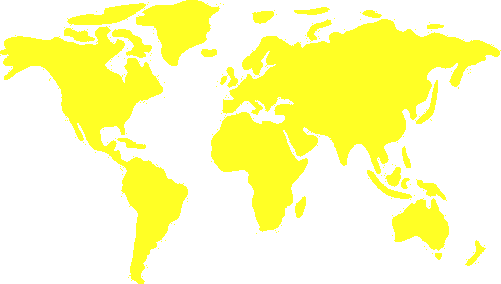
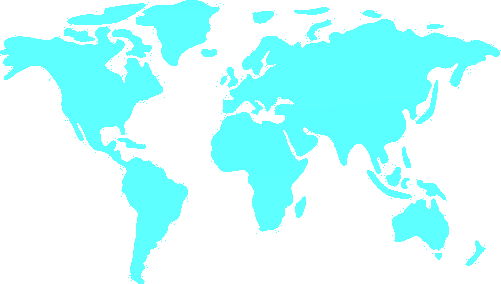
modified:   Colors.qml 	modified:   assets/.map_last_color 	modified:   assets/map_colorized_latest.png 	modified:   assets/map_colorized_latest_dark.png 	modified:   modules/settings/settings.json

diff --git a/Colors.qml b/Colors.qml
@@ -7,8 +7,8 @@ import QtQuick
 // Access from any QML file that imports the root module:
 //   Colors.col_primary  Colors.col_source_color  etc.
 Singleton {
-    property color col_background: "#15130c"
-    property color col_source_color: "#e6cb01"
-    property color col_primary: "#d8c770"
-    property color col_main: "#353116"
+    property color col_background: "#0e1514"
+    property color col_source_color: "#2decec"
+    property color col_primary: "#80d5d4"
+    property color col_main: "#1b3534"
 }
